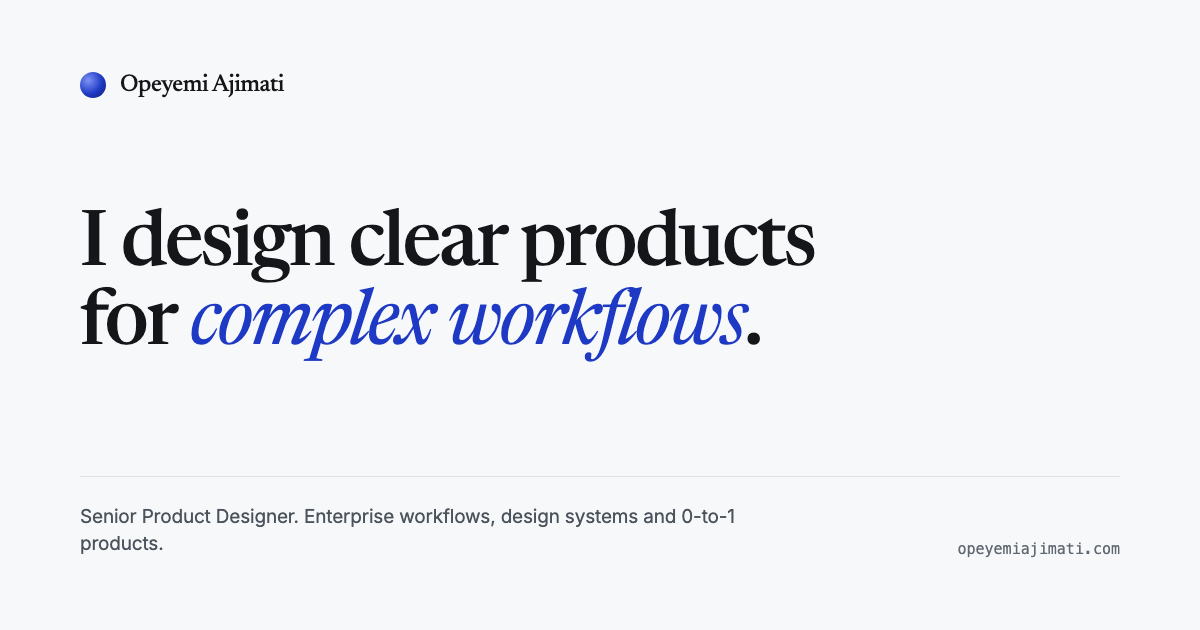
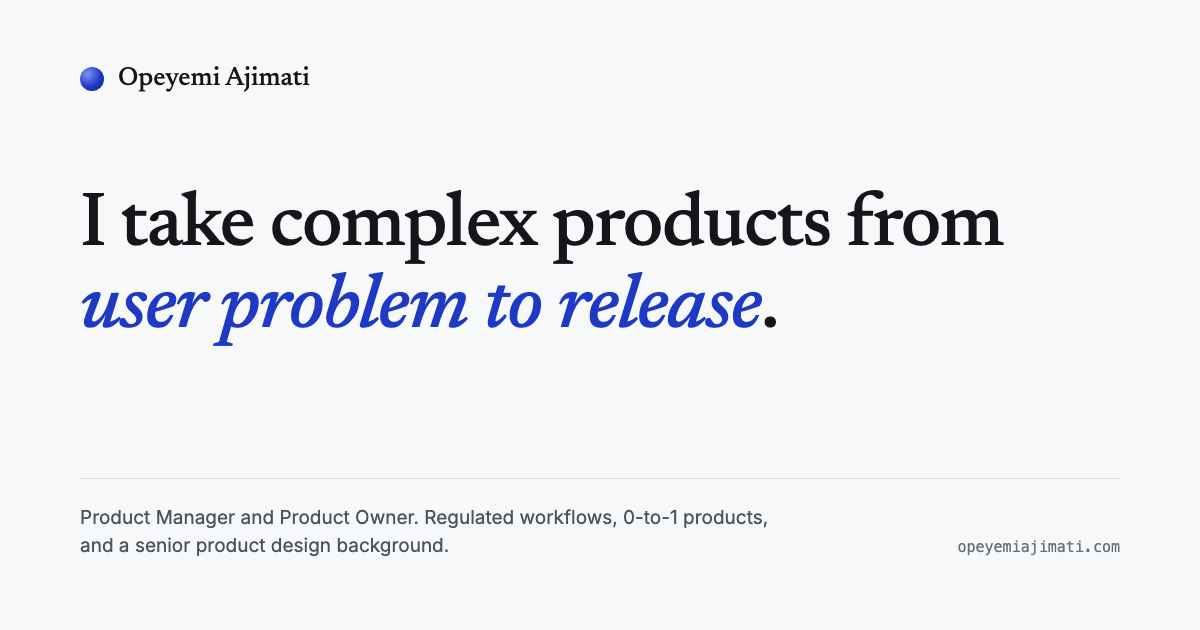
Reposition for Product Manager and Product Owner roles
Aligns the site with the PM CV. SBTi becomes what it was: a Product
Manager role owning discovery and requirements across three engineering
squads, not a design-only engagement.

- Identity, metadata, JSON-LD and OG card: Product Manager and Product
  Owner, 9 years, design background kept as the differentiator
- Experience: SBTi to Product Manager, Universal Investment to Senior
  Product Designer, Renuir and Anstoss founder roles added, PMI-ACP,
  PSPO I and PSM I listed
- Target Validation Platform: PM role block, a Delivery section covering
  requirements, scope trade-offs, the AI search and recommendation
  feature and post-launch iteration, plus the 40% support-ticket drop
- Fixed two long-standing unbalanced divs in renuir.html

diff --git a/index.html b/index.html
@@ -4,8 +4,8 @@
 <meta charset="UTF-8">
 <meta name="viewport" content="width=device-width, initial-scale=1.0">
 
-<title>Opeyemi Ajimati | Senior Product Designer</title>
-<meta name="description" content="Senior Product Designer with 7+ years of experience across enterprise UX, climate technology, fintech, design systems and AI-assisted products.">
+<title>Opeyemi Ajimati | Product Manager and Product Owner</title>
+<meta name="description" content="Product Manager and Product Owner with 9 years building digital products across B2B SaaS, climate tech, fintech and payments, with a background in senior product design.">
 <meta name="author" content="Opeyemi Ajimati">
 <meta name="robots" content="index,follow,max-image-preview:large,max-snippet:-1,max-video-preview:-1">
 <meta name="googlebot" content="index,follow">
@@ -17,23 +17,23 @@
 <!-- Open Graph -->
 <meta property="og:type" content="website">
 <meta property="og:site_name" content="Opeyemi Ajimati - Portfolio">
-<meta property="og:title" content="Opeyemi Ajimati | Senior Product Designer">
-<meta property="og:description" content="Senior Product Designer working on enterprise workflows, design systems and 0-to-1 products. Case studies inside.">
+<meta property="og:title" content="Opeyemi Ajimati | Product Manager and Product Owner">
+<meta property="og:description" content="Product Manager and Product Owner. Discovery, roadmap, requirements and delivery for regulated workflows and 0-to-1 products. Case studies inside.">
 <meta property="og:url" content="https://opeyemiajimati.com/">
 <meta property="og:image" content="https://opeyemiajimati.com/og-image.png">
 <meta property="og:image:secure_url" content="https://opeyemiajimati.com/og-image.png">
 <meta property="og:image:type" content="image/png">
 <meta property="og:image:width" content="1200">
 <meta property="og:image:height" content="630">
-<meta property="og:image:alt" content="Opeyemi Ajimati, Senior Product Designer. Clear products for complex workflows.">
+<meta property="og:image:alt" content="Opeyemi Ajimati, Product Manager and Product Owner. From user problem to release.">
 <meta property="og:locale" content="en_US">
 
 <!-- Twitter / X -->
 <meta name="twitter:card" content="summary_large_image">
-<meta name="twitter:title" content="Opeyemi Ajimati | Senior Product Designer">
-<meta name="twitter:description" content="Enterprise workflows, design systems and 0-to-1 products. Fintech, climate and regulated UX.">
+<meta name="twitter:title" content="Opeyemi Ajimati | Product Manager and Product Owner">
+<meta name="twitter:description" content="Product management for regulated workflows and 0-to-1 products. Climate tech, fintech and payments.">
 <meta name="twitter:image" content="https://opeyemiajimati.com/og-image.png">
-<meta name="twitter:image:alt" content="Opeyemi Ajimati - Senior Product Designer portfolio cover">
+<meta name="twitter:image:alt" content="Opeyemi Ajimati - Product Manager and Product Owner portfolio cover">
 
 <!-- Icons -->
 <link rel="icon" href="favicon.svg" type="image/svg+xml">
@@ -60,9 +60,15 @@
       "alternateName": "Ope Ajimati",
       "url": "https://opeyemiajimati.com/",
       "image": "https://opeyemiajimati.com/og-image.png",
-      "jobTitle": "Senior Product Designer",
-      "description": "Senior Product Designer working across Europe, with 7+ years across enterprise UX, climate technology, fintech and design systems.",
+      "jobTitle": "Product Manager",
+      "description": "Product Manager and Product Owner working across Europe, with 9 years across B2B SaaS, climate technology, fintech and payments, and a background in senior product design.",
       "knowsAbout": [
+        "Product Management",
+        "Product Ownership",
+        "Scrum",
+        "Roadmapping",
+        "Requirements and User Stories",
+        "Product Discovery",
         "Product Design",
         "Usability Testing",
         "Human-AI Interaction Design",
@@ -468,8 +474,8 @@ footer{
 <!-- HERO -->
 <section class="hero">
   <div class="w">
-    <h1 class="rv">I design clear products for <em>complex workflows</em>.</h1>
-    <p class="hero-p rv">Three years at the <em>Science Based Targets initiative</em>, redesigning the validation workflow thousands of companies use to submit climate targets. Before that, fintech at Universal Investment. I work where the process is regulated, the data is dense, and being wrong is expensive.</p>
+    <h1 class="rv">I take complex products from <em>user problem to release</em>.</h1>
+    <p class="hero-p rv">Product Manager at the <em>Science Based Targets initiative</em> for three and a half years, owning discovery and requirements across three engineering squads on the platform thousands of companies use to submit climate targets. Before that, six years designing products in fintech, payments and consumer apps. I work where the process is regulated, the data is dense, and being wrong is expensive.</p>
     <div class="btns rv">
       <a href="#work" class="btn btn-p">View selected work <span class="ic">↗</span></a>
       <a href="#contact" class="btn">Get in touch</a>
@@ -497,7 +503,7 @@ footer{
     <div class="section-head">
       <div class="left">
         <h2 class="st rv">Selected <em>case studies</em></h2>
-        <p class="sd rv">Enterprise workflows, design systems and 0-to-1 products. Three in depth, with the research and the decisions that did not survive it.</p>
+        <p class="sd rv">Regulated workflows, design systems and 0-to-1 products. Three in depth, with the discovery, the trade-offs and the decisions that did not survive delivery.</p>
       </div>
     </div>
 
@@ -511,18 +517,18 @@ footer{
         <div class="info">
           <div class="info-top">
             <div class="meta">
+              <span class="wm">Product Management</span>
               <span class="wm">B2B Enterprise</span>
               <span class="wm">Climate Tech</span>
-              <span class="wm">Data UX</span>
             </div>
             <div class="name">Target Validation Platform</div>
-            <p class="desc">A 14-step climate-target validation workflow, redesigned down to 6 steps, for an enterprise platform processing targets from thousands of companies worldwide.</p>
+            <p class="desc">As Product Manager across three engineering squads: a 14-step climate-target validation workflow taken down to 6 steps, on an enterprise platform processing targets from thousands of companies worldwide.</p>
           </div>
           <div class="info-bot">
             <div class="impact">
               <div class="imp-i"><div class="imp-n">14→6</div><div class="imp-l">Steps</div></div>
               <div class="imp-i"><div class="imp-n">67&rarr;18%</div><div class="imp-l">Abandon rate</div></div>
-              <div class="imp-i"><div class="imp-n">30+</div><div class="imp-l">Research Sessions</div></div>
+              <div class="imp-i"><div class="imp-n">3</div><div class="imp-l">Squads owned</div></div>
             </div>
             <span class="read">Read case study →</span>
           </div>
@@ -561,12 +567,12 @@ footer{
         <div class="info">
           <div class="info-top">
             <div class="meta">
-              <span class="wm">Lead Product Designer</span>
+              <span class="wm">Founder and Product Lead</span>
               <span class="wm">Mobile App</span>
               <span class="wm">In TestFlight</span>
             </div>
             <div class="name">Renuir</div>
-            <p class="desc">Lead product design for a lost-and-found platform for Europe. 47 screens with AI matching, ownership verification, safe meetups, and a gamified return flow, across B2C and B2B. Now in TestFlight with pilot users.</p>
+            <p class="desc">Product strategy, MVP scope and design for a lost-and-found platform for Europe. 47 screens covering AI matching, ownership verification, safe meetups and a gamified return flow, across B2C and B2B. Now in TestFlight with pilot users.</p>
           </div>
           <div class="info-bot">
             <div class="impact">
@@ -656,15 +662,15 @@ footer{
     </div>
     <div class="about-wrap">
       <div>
-        <p class="about-lead rv">I am a Senior Product Designer with <em>7+ years</em> designing B2B and consumer products across climate technology, fintech, digital assets, healthcare and logistics.</p>
+        <p class="about-lead rv">I am a Product Manager and Product Owner with <em>9 years</em> building digital products across B2B SaaS, climate tech, fintech, payments and consumer apps, with a background in senior product design.</p>
         <div class="about-cols rv">
           <div class="about-col">
             <h3>Where I do my strongest work</h3>
-            <p>Complex products where people read dense data, complete regulated workflows, or make decisions that are costly to reverse. Seven years across enterprise software, climate technology, fintech and AI-assisted products, leading work from research and problem definition through interaction design, design systems, usability testing and delivery.</p>
+            <p>Complex products where people read dense data, complete regulated workflows, or make decisions that are costly to reverse. I work from user problem to release: discovery, problem framing, roadmap shaping, prioritisation, requirements and acceptance criteria, sprint delivery, then the metrics and the iteration after launch.</p>
           </div>
           <div class="about-col">
-            <h3>How I use AI tooling</h3>
-            <p>I use AI-assisted development tools to take my own designs to functional builds. Anstoss went to Android and iOS this way; Attestloop runs as a live scanner. Testing real product behaviour finds the problems that a prototype hides, before implementation gets expensive.</p>
+            <h3>What the design background adds</h3>
+            <p>I write requirements that survive contact with engineering because I have sat on the other side of them. I can define a flow, test it with users, and take it to a functional build in React and TypeScript using AI-assisted development. Anstoss went to Android and iOS this way. Real product behaviour surfaces the problems a document hides, before implementation gets expensive.</p>
           </div>
         </div>
       </div>
@@ -673,6 +679,7 @@ footer{
         <div class="am-row"><dt>Building</dt><dd><a href="https://anstoss.io/" target="_blank" rel="noopener">anstoss.io</a> <span class="qual">Android and iOS in store review</span></dd></div>
         <div class="am-row"><dt>Running</dt><dd><a href="https://compliancelayer-production.up.railway.app/" target="_blank" rel="noopener">Attestloop</a> <span class="qual">live compliance scanner</span></dd></div>
         <div class="am-row"><dt>Previously</dt><dd>Universal Investment, Deveote</dd></div>
+        <div class="am-row"><dt>Certified</dt><dd>PMI-ACP, PSPO I, PSM I</dd></div>
       </dl>
     </div>
   </div>
@@ -688,16 +695,30 @@ footer{
     </div>
     <div class="exp-list">
       <div class="exp rv">
+        <div class="exp-d">2026 to now</div>
+        <div>
+          <div class="exp-r">Founder and Product Lead</div>
+          <div class="exp-c">Renuir UG</div>
+        </div>
+      </div>
+      <div class="exp rv">
+        <div class="exp-d">2024 to now</div>
+        <div>
+          <div class="exp-r">Founder and Product Owner</div>
+          <div class="exp-c">Anstoss <span class="qual">independent product</span></div>
+        </div>
+      </div>
+      <div class="exp rv">
         <div class="exp-d">2023 to 2026</div>
         <div>
-          <div class="exp-r">Senior Product Designer</div>
+          <div class="exp-r">Product Manager</div>
           <div class="exp-c">Science Based Targets initiative</div>
         </div>
       </div>
       <div class="exp rv">
         <div class="exp-d">2019 to 2022</div>
         <div>
-          <div class="exp-r">UX Designer</div>
+          <div class="exp-r">Senior Product Designer</div>
           <div class="exp-c">Universal Investment</div>
         </div>
       </div>
@@ -777,7 +798,7 @@ footer{
   <div class="foot-wrap">
     <div class="foot-brand">
       <h3><span class="mark"></span> Opeyemi Ajimati</h3>
-      <p>Senior Product Designer working on enterprise workflows, design systems and 0-to-1 products.</p>
+      <p>Product Manager and Product Owner working on regulated workflows and 0-to-1 products, with a background in senior product design.</p>
     </div>
     <div class="foot-col">
       <h3>Elsewhere</h3>

diff --git a/projects/compliance.html b/projects/compliance.html
@@ -1,6 +1,6 @@
 <!DOCTYPE html><html lang="en"><head><meta charset="UTF-8"><meta name="viewport" content="width=device-width,initial-scale=1.0">
 <title>Target Validation Platform - Compliance & Risk UX | Opeyemi Ajimati</title>
-<meta name="description" content="Case study: turning regulatory complexity into clear validation workflows for compliance teams.">
+<meta name="description" content="Case study: as Product Manager, owning discovery, requirements and delivery across three squads to cut a regulated climate-target submission from 14 steps to 6.">
 <meta name="author" content="Opeyemi Ajimati">
 <meta name="robots" content="index,follow,max-image-preview:large">
 <link rel="canonical" href="https://opeyemiajimati.com/projects/compliance.html">
@@ -10,7 +10,7 @@
 <meta property="og:type" content="article">
 <meta property="og:site_name" content="Opeyemi Ajimati - Portfolio">
 <meta property="og:title" content="Target Validation Platform - Compliance & Risk UX - Opeyemi Ajimati">
-<meta property="og:description" content="Case study: turning regulatory complexity into clear validation workflows for compliance teams.">
+<meta property="og:description" content="Case study: as Product Manager, owning discovery, requirements and delivery across three squads to cut a regulated climate-target submission from 14 steps to 6.">
 <meta property="og:url" content="https://opeyemiajimati.com/projects/compliance.html">
 <meta property="og:image" content="https://opeyemiajimati.com/assets/compliance-thumb.png">
 <meta property="og:image:alt" content="Target Validation Platform - Compliance & Risk UX - case study cover">
@@ -19,7 +19,7 @@
 <!-- Twitter -->
 <meta name="twitter:card" content="summary_large_image">
 <meta name="twitter:title" content="Target Validation Platform - Compliance & Risk UX - Opeyemi Ajimati">
-<meta name="twitter:description" content="Case study: turning regulatory complexity into clear validation workflows for compliance teams.">
+<meta name="twitter:description" content="Case study: as Product Manager, owning discovery, requirements and delivery across three squads to cut a regulated climate-target submission from 14 steps to 6.">
 <meta name="twitter:image" content="https://opeyemiajimati.com/assets/compliance-thumb.png">
 
 <!-- Icons -->
@@ -182,8 +182,8 @@ hr{border:none;height:1px;background:var(--bd);margin:48px 0}
 <section class="hero"><div class="w">
 <div class="tags"><span class="tg">B2B Enterprise</span><span class="tg">Climate Tech</span><span class="tg">Data-Heavy UX</span><span class="tg">AI Features</span></div>
 <h1>Simplifying climate target validation for global enterprises</h1>
-<p class="lead">I redesigned a 14-step compliance validation workflow into a 6-step guided flow for an enterprise platform used by sustainability teams at thousands of companies worldwide.</p>
-<div class="mg"><div class="mc"><dt>Role</dt><dd>Sole Product Designer</dd></div><div class="mc"><dt>Responsibility</dt><dd>Research, workflow strategy, IA, interaction design, usability testing, delivery support</dd></div><div class="mc"><dt>Team</dt><dd>Product, engineering and climate-policy specialists across 3 squads</dd></div><div class="mc"><dt>Timeline</dt><dd>5 months</dd></div><div class="mc"><dt>Platform</dt><dd>Enterprise web</dd></div><div class="mc"><dt>Status</dt><dd>In production</dd></div><div class="mc"><dt>Evidence</dt><dd>Product analytics, 30+ research sessions, moderated testing n=8</dd></div><div class="mc"><dt>Constraint</dt><dd>Regulated workflow, screens under NDA</dd></div></div>
+<p class="lead">As Product Manager I owned discovery and requirements for the submission flow across three engineering squads, taking a 14-step compliance validation workflow down to a 6-step guided flow on an enterprise platform used by sustainability teams at thousands of companies worldwide.</p>
+<div class="mg"><div class="mc"><dt>Role</dt><dd>Product Manager, also leading the product design</dd></div><div class="mc"><dt>Responsibility</dt><dd>Discovery, roadmap priorities, requirements and acceptance criteria, backlog, release readiness, workflow and interaction design, usability testing</dd></div><div class="mc"><dt>Team</dt><dd>3 engineering squads plus climate-policy specialists, 2-week Scrum</dd></div><div class="mc"><dt>Timeline</dt><dd>5 months</dd></div><div class="mc"><dt>Platform</dt><dd>Enterprise web</dd></div><div class="mc"><dt>Status</dt><dd>In production</dd></div><div class="mc"><dt>Evidence</dt><dd>Product analytics, 30+ research sessions, moderated testing n=8</dd></div><div class="mc"><dt>Constraint</dt><dd>Regulated workflow, screens under NDA</dd></div></div>
 </div></section>
 
 <div class="w">
@@ -279,6 +279,17 @@ hr{border:none;height:1px;background:var(--bd);margin:48px 0}
 </div>
 
 <div class="w"><hr>
+<div class="sl">Delivery</div>
+<h2 class="sh">Running it across three squads</h2>
+<p class="sp">A six-step target is a product decision; holding it through delivery is a different job. The work ran in two-week sprints across three squads, so most weeks the question was which part of the flow could ship next without leaving a half-migrated submission in production.</p>
+<div class="cg">
+<div class="cd"><h3>Requirements the squads could build from</h3><p>Customer interviews, product data, support issues, policy rules and technical constraints became roadmap priorities, then user stories with acceptance criteria. Where a compliance checkpoint could not move, the acceptance criteria said so explicitly rather than leaving engineering to discover it in review.</p></div>
+<div class="cd"><h3>Scope trade-offs in the open</h3><p>Backlog refinement, sprint planning and release readiness ran with product, engineering and policy in the same room. Delivery decisions stayed tied to the regulatory constraint and to the measures we had agreed, which is what kept the step count from creeping back up under pressure.</p></div>
+<div class="cd"><h3>AI search and recommendation</h3><p>I defined and shipped search and recommendation over unstructured documents, including the requirements for confidence, explanation, human review and manual override, and partnered with engineering through implementation and acceptance.</p></div>
+<div class="cd"><h3>After launch</h3><p>I rebuilt the target dashboard using funnel behaviour and support signals to decide what to change, rather than treating launch as the end of the work. Related support tickets fell by about 40% in the following quarter.</p></div>
+</div></div>
+
+<div class="w"><hr>
 <div class="sl">Results</div>
 <h2 class="sh">Outcomes</h2>
 <p class="sp">The left column is production analytics from the instrumented platform, comparing the quarter before launch with the quarter after. The right column is moderated usability testing with eight enterprise users on the redesigned flow. The two are not combined.</p>
@@ -286,7 +297,7 @@ hr{border:none;height:1px;background:var(--bd);margin:48px 0}
 <div class="tc"><h3>Production analytics, before and after</h3>
 <div class="br"><div class="bl"><span>Submission time</span><span class="v">4.5hrs → 1.2hrs</span></div><div class="bar"><div class="bf bg" style="width:73%"></div></div></div>
 <div class="br"><div class="bl"><span>Abandon rate</span><span class="v">67% → 18%</span></div><div class="bar"><div class="bf bg" style="width:73%"></div></div></div>
-
+<div class="br"><div class="bl"><span>Related support tickets</span><span class="v">down ~40%</span></div><div class="bar"><div class="bf bg" style="width:40%"></div></div></div>
 </div>
 <div class="tc"><h3>Moderated usability testing, n=8</h3>
 <div class="br"><div class="bl"><span>SUS, moderated round</span><span class="v">81 / 100</span></div><div class="bar"><div class="bf bg" style="width:81%"></div></div></div>

diff --git a/projects/renuir.html b/projects/renuir.html
@@ -180,11 +180,11 @@ hr{border:none;height:1px;background:var(--bd);margin:48px 0}
 <main id="main" tabindex="-1">
 
 <section class="hero"><div class="w">
-<div class="tags"><span class="tg">Lead Product Designer</span><span class="tg">Mobile App</span><span class="tg">In TestFlight</span><span class="tg">B2C + B2B</span></div>
+<div class="tags"><span class="tg">Founder and Product Lead</span><span class="tg">Mobile App</span><span class="tg">In TestFlight</span><span class="tg">B2C + B2B</span></div>
 <h1>Renuir: reuniting people with their lost belongings</h1>
 <p class="lead">I led product design for Renuir, a complete mobile platform for Europe's lost-and-found ecosystem: onboarding, item reporting, AI-powered matching, ownership verification, secure delivery coordination, and trust-building features. 47 screens, end to end, across B2C and B2B. It is in TestFlight with pilot users.</p>
 <div class="mg">
-<div class="mc"><dt>Role</dt><dd>Lead Product Designer</dd></div>
+<div class="mc"><dt>Role</dt><dd>Founder and Product Lead</dd></div>
 <div class="mc"><dt>Platform</dt><dd>iOS + Android</dd></div>
 <div class="mc"><dt>Surfaces</dt><dd>B2C + B2B</dd></div>
 <div class="mc"><dt>Scope</dt><dd>47 screens, end to end</dd></div>
@@ -224,7 +224,6 @@ hr{border:none;height:1px;background:var(--bd);margin:48px 0}
 <div class="cd"><h3>People give up on day one</h3><p>Interviewees described stopping the active search within the first day, worn down by friction in reporting and searching.</p></div>
 <div class="cd"><h3>No unified platform exists</h3><p>Our competitive scan found no protocol-layer solution that standardizes lost-and-found across organizations and countries.</p></div>
 <div class="cd"><h3>The blueprint located the handoffs</h3><p>Our service blueprint surfaced the moments where items get permanently lost in the current system.</p></div>
-</div>
 </div>
 </div>
 
@@ -363,6 +362,7 @@ hr{border:none;height:1px;background:var(--bd);margin:48px 0}
 <div class="fd i"><div class="sv">Improvement</div><h3>Meeting location suggestions needed context</h3><p>Users loved safe meeting spots but wanted to know why they were "safe." Added rationale labels: "Police station: public, CCTV, staff present."</p></div>
 <div class="fd s"><div class="sv">Validation</div><h3>Match confidence score built immediate trust</h3><p>5 of the 6 moderated testers said the "98% match" indicator gave them confidence the system was working. Without it, users questioned whether the match was real.</p></div>
 <div class="fd i"><div class="sv">Improvement</div><h3>Handover code needed better error recovery</h3><p>Wrong code error was unclear. Added: "Code does not match. Ask the other person to show their code screen" with retry.</p></div>
+</div>
 </div>
 
 <!-- REFLECTIONS -->

diff --git a/projects/anstoss.html b/projects/anstoss.html
@@ -113,7 +113,7 @@ hr{border:none;height:1px;background:var(--bd);margin:48px 0}
 <a href="#research" class="btng">Read the process</a>
 </div>
 <div class="mg">
-<div class="mc"><dt>Role</dt><dd>Product Designer, independent side project</dd></div>
+<div class="mc"><dt>Role</dt><dd>Founder and Product Owner, independent product</dd></div>
 <div class="mc"><dt>Platform</dt><dd>Android &amp; iOS</dd></div>
 <div class="mc"><dt>Scope</dt><dd>Strategy, research, UX/UI, AI-assisted prototyping, testing</dd></div>
 <div class="mc"><dt>Users</dt><dd>4 roles, one app</dd></div>
